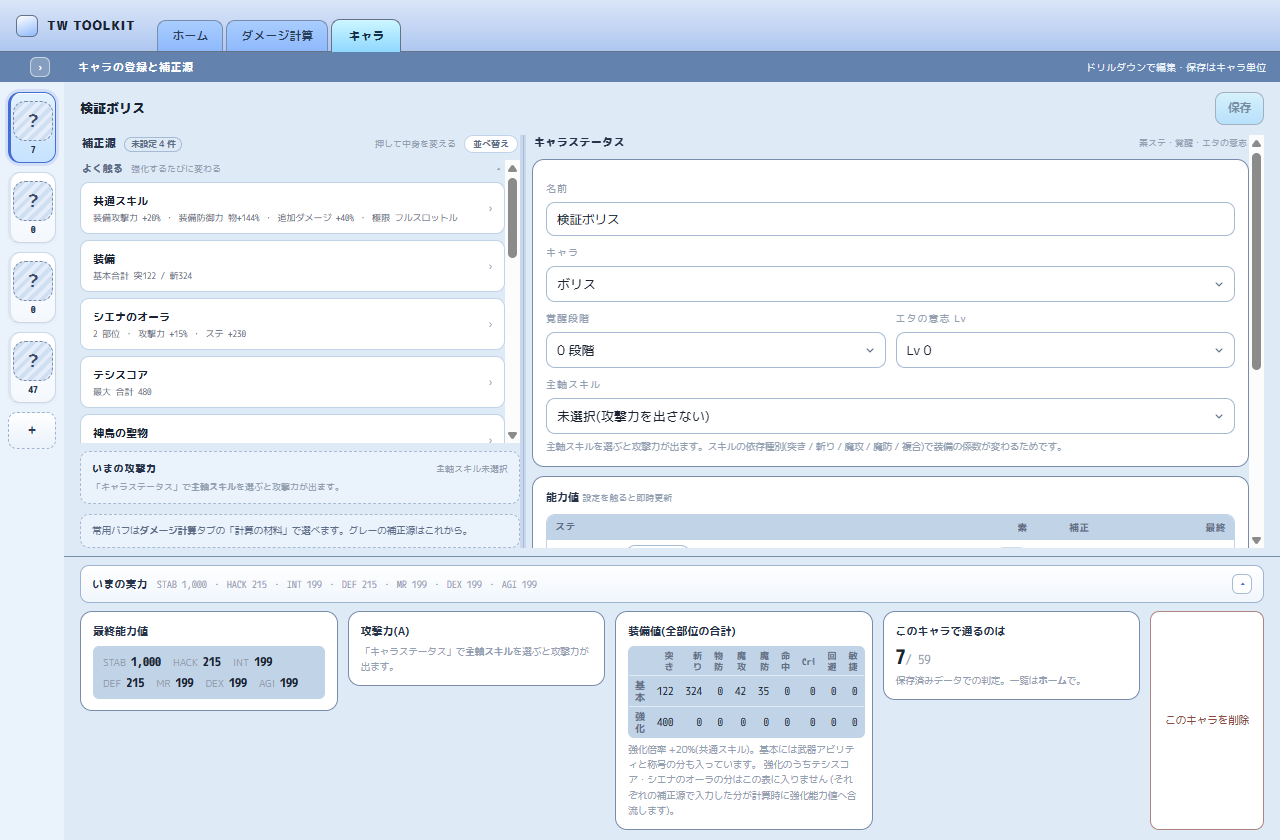
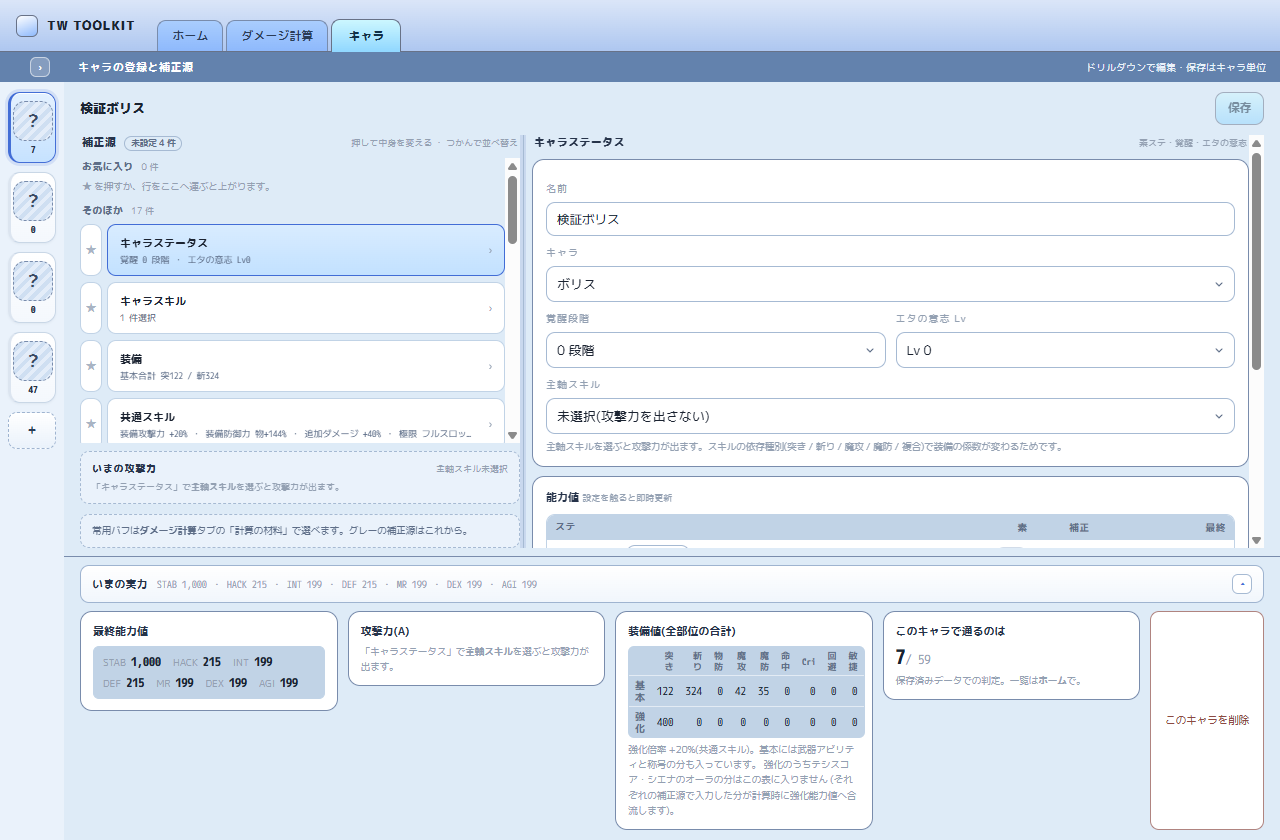
docs: 適合ループ 2 周目を記録する
goal の周ごとの記録と decisions.md に 2 周目を追加した。

1 周目の監査が機械監査で拾える下層(色・角丸・書体)に寄っていたこと、
そのせいで §10「動きと変化」が実質未実装のまま見落とされていたことを含めて残す。
規格・角丸・色は「結論であって理由ではない」と §00 の冒頭に書いてあり、
重心は §00 の 15 項目にある。

決定 3 が途中で方針を変えた経緯(3 群固定 → ▲▼ → お気に入り + ドラッグ)も残した。

古い案のスクリーンショット(3 群 / ▲▼)は実装が変わったので削除した。

Claude-Session: https://claude.ai/code/session_01JvRWxU3ohwNNHW2hQatCCP

Changed region(s): [[0.0625, 0.1548, 0.4062, 0.5262], [0.2812, 0.1548, 0.4062, 0.1857]]

diff --git a/docs/claude/goals/2026-08-25-design-conformance.md b/docs/claude/goals/2026-08-25-design-conformance.md
@@ -1,6 +1,6 @@
 # Goal: UI をデザインシステムに適合させる(適合するまでループ)
 
-状態: **進行中(2026-08-25 開始。1 周目終了、2 周目へ)**
+状態: **進行中(2026-08-25 開始。2 周目終了、3 周目へ)**
 
 ## 目的
 
@@ -151,6 +151,7 @@ design-system.html §14 に置いた決定も適合項目として扱う。**ド
 |---|---|---|---|---|---|---|
 | 0 | 2026-08-25 | — (段階 0) | — | `tools/design-audit/run.py` を用意。9 ルール | — | — |
 | 1 | 2026-08-25 | A 全ファイル / B 3 タブ + 計算タブ全パネル + 補正源 17 ペイン + 装備の部位詳細 | A 188 → 0 / B 9 件 | 8 件(下記) | 4 件(下記) | 4 件(下記) |
+| 2 | 2026-08-25 | A 全ファイル / B §00 の 15 項目・§09 の 5 規則・§10 を軸に全画面 / C §14 の 6 決定 | A 0 / B 3 件 / C 6 件 | 3 件 + §14 の 6 決定すべて | 6 決定を §14 から各節へ移設 | 1 件(下記) |
 
 ### 1 周目の詳細
 
@@ -195,6 +196,63 @@ design-system.html §14 に置いた決定も適合項目として扱う。**ド
   決定 1(鎖)は計算タブのレイアウト変更なので、§09 の 3 ペイン化と同じ周でまとめる
 - **機械監査の穴 — 「border-radius の宣言が無い」を検出していなかった。***理由ではなく対応*:
   1 周目中に R9 として追加済み(検出 → 修正まで完了)
+
+### 2 周目の詳細
+
+1 周目の監査は**機械監査で拾える下層(§03 色 / §04 角丸 / §05 書体)に寄っていた**。
+この文書が一番拘っているのは §00 の 15 項目で、規格・角丸・色は「結論であって理由ではない」と
+冒頭に書いてある。2 周目はそこから見直した。
+
+**最大の見落とし — §10「動きと変化」が実質未実装だった**
+
+実装を確認したら `scale()` 0 件、`@keyframes` 0 件、`prefers-reduced-motion` 0 件、
+`transition` はバーの幅と ▼ の回転の 4 箇所だけ。§00-7「動きの仕事は、何が変わったかを
+認知させること。**破ると『押したのに何か起きたのか分からない』。試し変更が主要な体験の
+この道具では機能そのものが伝わらなくなる**」が丸ごと落ちていた。1 周目でこれを見ていない。
+
+6 つの型を `app.css` に置いて配線した(数値の跳ね / バーの幅 / ペインの出現 /
+ポップオーバー / バッジ / 開閉)+ reduced-motion。実機で 6 型すべての発火を確認。
+Svelte 5 の action は引数が変わっても再実行されないので、`bump` は値ではなく getter を受け取る。
+
+**違反(実装を直した)**
+
+1. §10 — 上記
+2. §09 規則 2 — 装備の部位詳細が置き換えドリルダウンだった(1 周目の見送り分)。
+   補正源 / 部位一覧 / 部位詳細 の 3 ペインにした。押した行の座標が変わらないことを実機で測って確認
+3. §03 — 「攻撃力をつくる」の内訳で共通スキル由来にラベンダーを使っていた(1 周目で修正済み)
+
+**§14 の 6 決定(適合項目 C)— すべて着地**
+
+| # | 決定 | 実装 |
+|---|---|---|
+| 1 | ダメージは「鎖」で出す | 1 発 [判定] ×N 段 → 合計 ÷ 中ディレイ → 1 秒あたり → 討伐時間。判定はゲートにだけ |
+| 2 | 効いていない分を 1 箇所に | 「なぜこの数字?」に 5 階層の棚卸し表。中ディレイ下限も量が出るようにした |
+| 3 | 補正源リストの重さを変える | **お気に入り(★)+ ドラッグ&ドロップ**。頻度をこちらで決め打ちしない形に着地 |
+| 4 | 相手依存の値は 2 つに割る | 適合済み(維持を確認) |
+| 5 | 欠けの表現を行頭へ | 収録度バッジ。完全な行には出さない |
+| 6 | 試し変更は 3 件まで | 上限は色ではなく文言で伝える |
+
+決定 3 は**途中で方針が変わった**。最初は操作頻度で 3 群に固定したが、
+「どれをよく触るかは人によって違う」「▲▼ は並べ替えの操作として最悪」という指摘を受けて、
+お気に入り + ドラッグに作り直した。§09 規則 5「並びは、ユーザーが頼まない限り変わらない」の
+裏返し(頼まれたら変わってよい)として規格側にも書き足した。
+
+**規格の穴(design-system.html を直した)**
+
+着地した 6 決定を §14 から各節へ実物として移した(§15 のルール)。
+§14 は「これから作る画面の決定」から「まだ決めていないこと」になった。
+
+**見送り(理由込み)**
+
+- **§09 規則 5 — 押した候補が一覧から消える。***理由*: 規則 5 は「消えることを動きで見せる」を
+  求めているが、**§10 に「行が消える」型が無い**。型を足すのか、消さずに「適用中」として残すのかは
+  規格の判断。**§14 に保留 D として登録**した。いまは右カラムのチップ列で行き先を追える
+
+**残っている保留(§14「判断を保留しているもの」)**
+
+A. スライダーは §07 の 5 形態のどれなのか / B. オン・オフがチェックボックスとチップに割れている /
+C. 上限到達を金で言うか紫で言うか / D. 押した候補が消えるのをどう見せるか。
+いずれも **v4 の実物を見ないと決められない**ので、決めるまで違反として数えない。
 
 ## やらないこと
 
